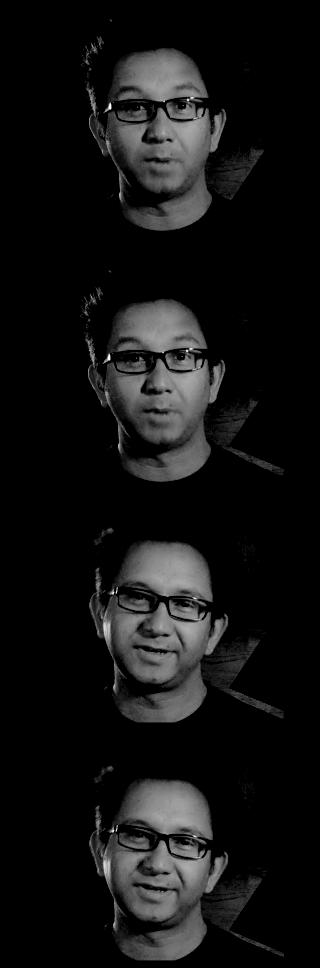
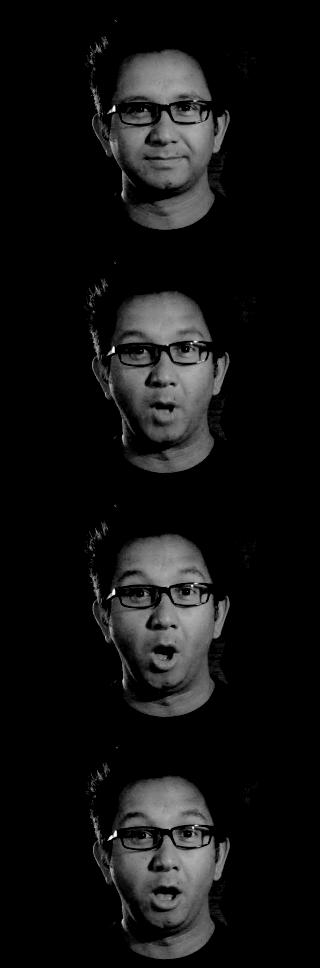
new animations for Steve and Andy

diff --git a/templates/index.html b/templates/index.html
@@ -85,7 +85,7 @@
 				<li id="face_gs2"><img src="{{ STATIC_URL }}img/faces/ian.jpg" alt="" /></li>
 				<li id="face_a2"><img src="{{ STATIC_URL }}img/faces/neal.jpg" alt="" /></li>
 				<li id="face_as2"><img src="{{ STATIC_URL }}img/faces/ed.jpg" alt="" /></li>
-				<li id="face_b2"><img src="{{ STATIC_URL }}img/faces/matthew.jpg" alt="" /></li><!-- Where did Andy go?!? -->
+				<li id="face_b2"><img src="{{ STATIC_URL }}img/faces/andy.jpg" alt="" /></li>
 				<li id="face_c3"><img src="{{ STATIC_URL }}img/faces/olly.jpg" alt="" /></li>
 				<li id="face_cs3"><img src="{{ STATIC_URL }}img/faces/jonny.jpg" alt="" /></li>
 				<li id="face_d3"><img src="{{ STATIC_URL }}img/faces/neil.jpg" alt="" /></li>
